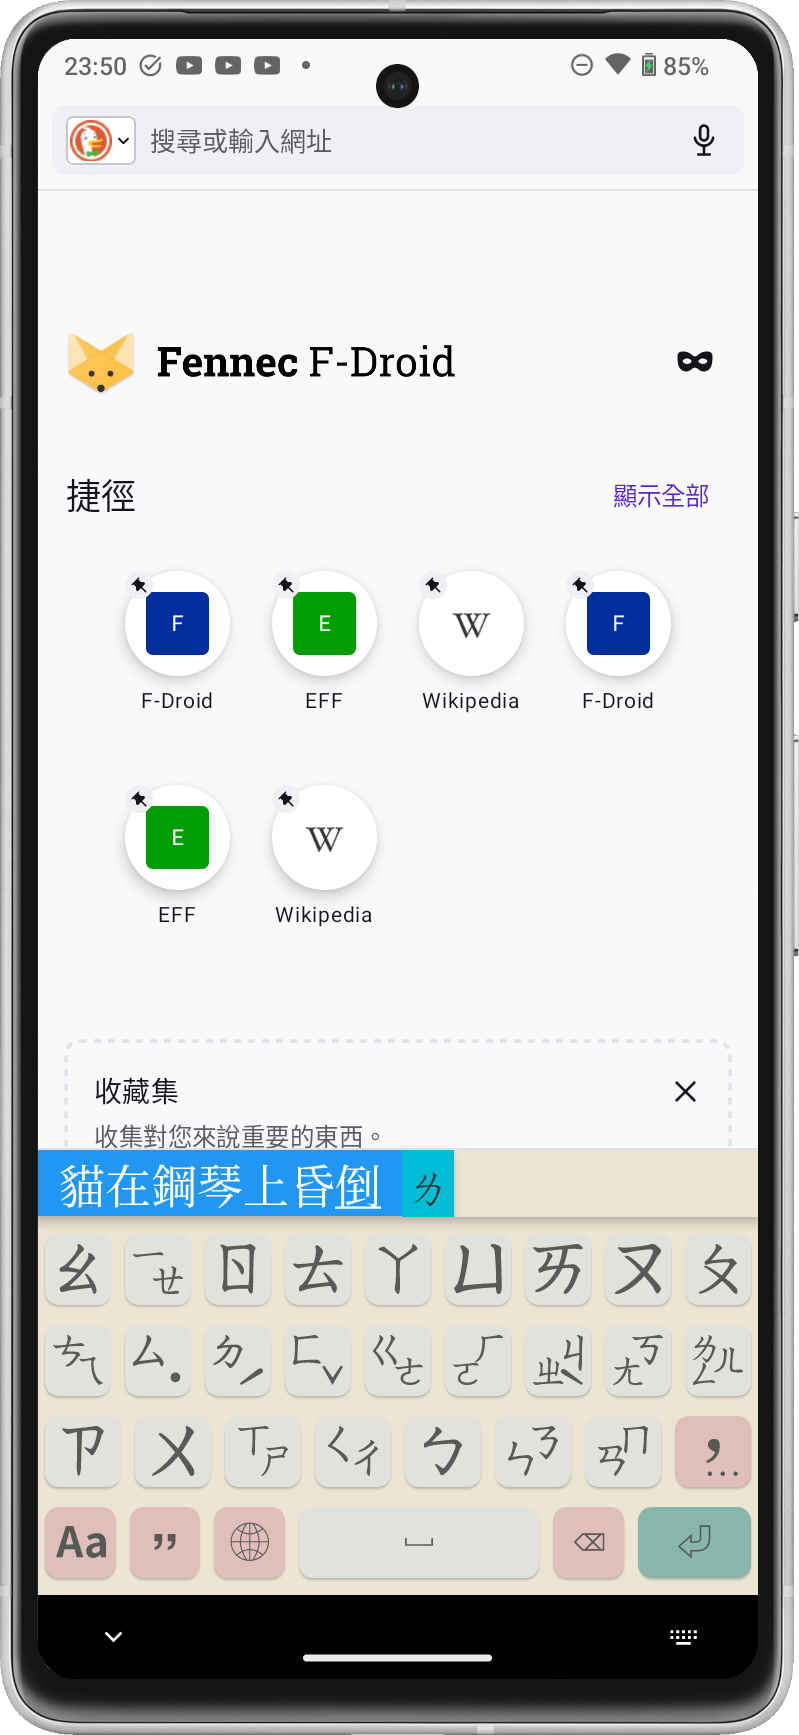
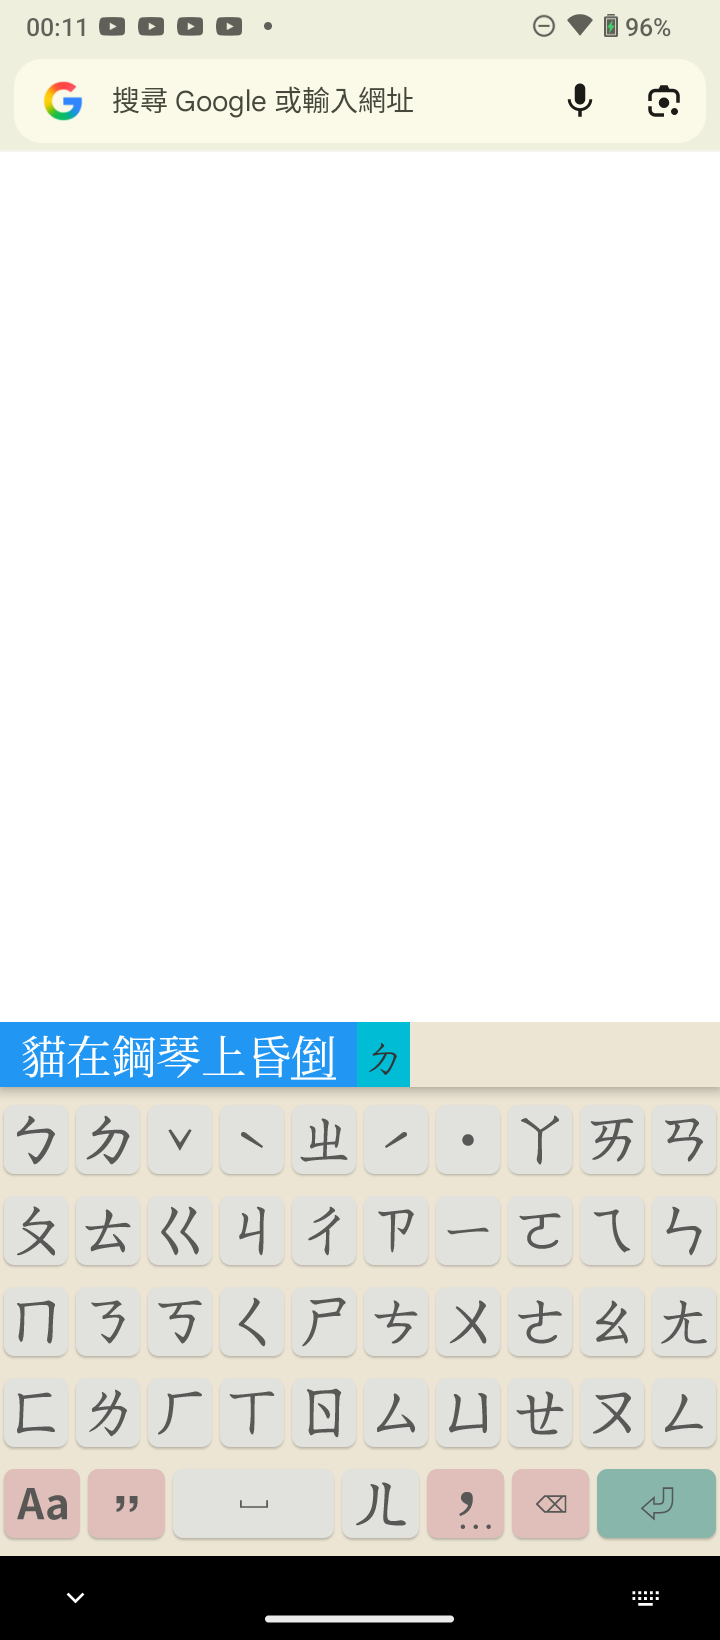
Update screenshots for 5.1.6
Retake the README and fastlane phone screenshots on the 5.1.6 build
(libchewing 0.13.1) so they show the current settings screen and the
Dachen soft keyboard, replacing the December 2025 captures.

diff --git a/README.md b/README.md
@@ -6,8 +6,8 @@
 
 # Guileless Bopomofo 樸實注音鍵盤
 
-![Screenshot of Guileless Bopomofo](./media/Screenshot_20251223_234723.png)
-![Screenshot of Guileless Bopomofo](./media/Screenshot_20251223_235026.png)
+![Screenshot of Guileless Bopomofo](./media/Screenshot_20261109_000829.png)
+![Screenshot of Guileless Bopomofo](./media/Screenshot_20261109_001100.png)
 
 ## About 這是啥 概要
 
